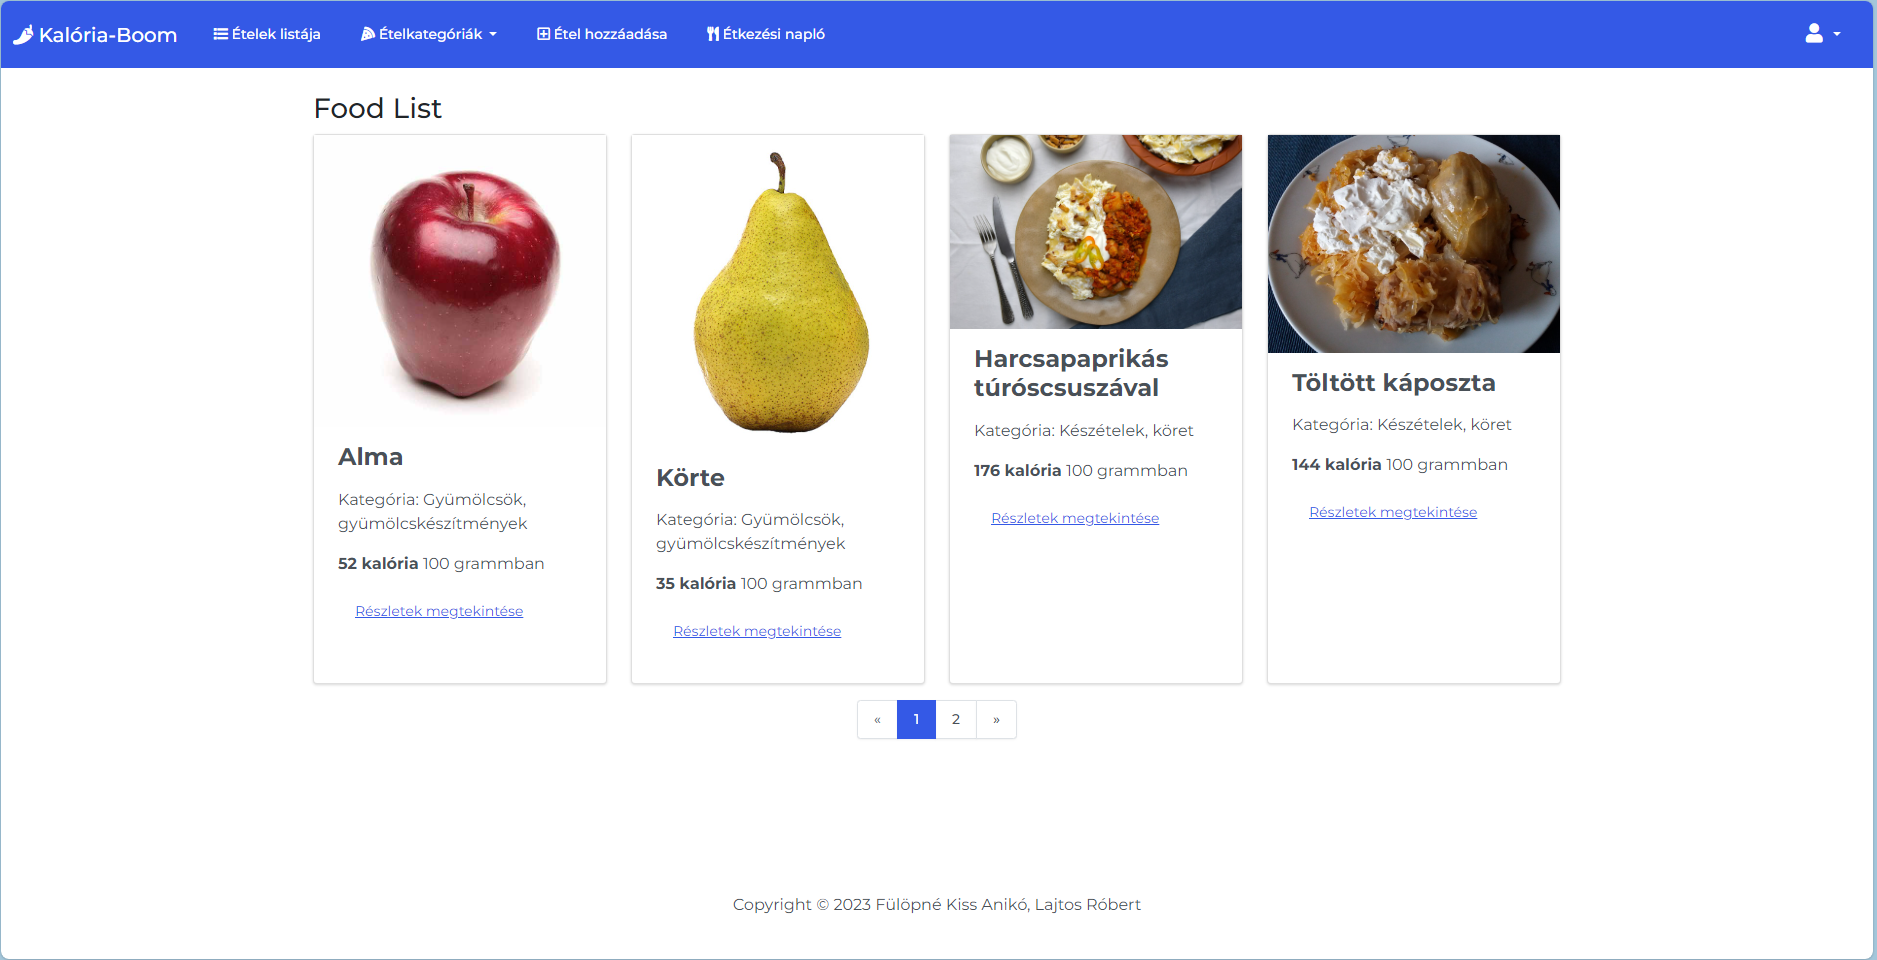
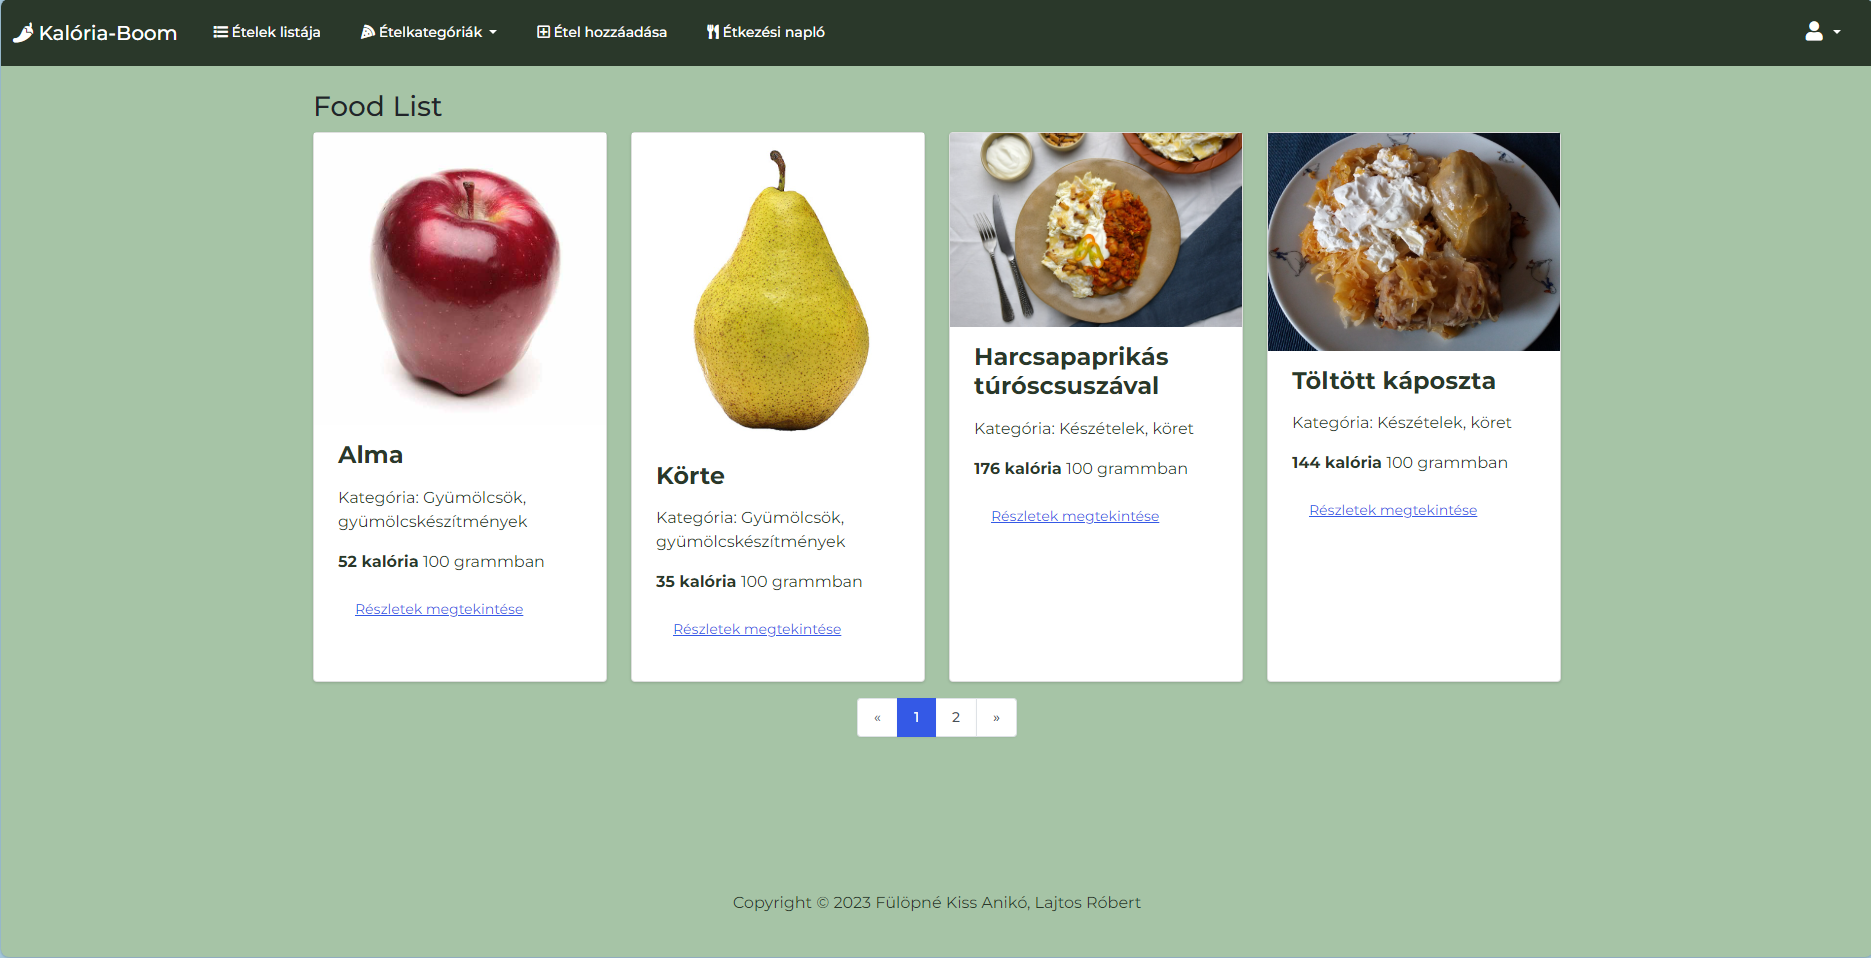
Improve colors 2

diff --git a/templates/food_log.html b/templates/food_log.html
@@ -35,7 +35,7 @@
                         </div>
 
                         <div class="col-4">
-                          <button type="submit" class="btn btn-info">
+                          <button type="submit" class="btn green">
                             <i class="fas fa-light fa-plus fa-beat ml-3"></i>
                           </button>
                         </div>
@@ -96,7 +96,7 @@
 
                       <td>
                         <a
-                          class="btn btn-danger"
+                          class="btn light-red"
                           href="{% url 'food_log_delete' food_item.id %}"
                         >
                           <i class="fas fa-trash-alt"></i>
@@ -133,7 +133,7 @@
                 <div class="progress" style="height: 40px">
                   <div
                     id="progressBar"
-                    class="progress-bar progress-bar-striped bg-dark progress-bar-animated"
+                    class="progress-bar progress-bar-striped light-green progress-bar-animated"
                     role="progressbar"
                     aria-valuenow="0"
                     aria-valuemin="0"

diff --git a/static/css/styles.css b/static/css/styles.css
@@ -33,3 +33,21 @@ footer {
     background-size: cover;
 }
 
+.light-green {
+    background-color: rgb(3, 252, 240);
+}
+
+.light-blue {
+    background-color: rgb(116, 145, 227);
+    color: rgb(225, 229, 240);
+}
+
+.light-red {
+    background-color: rgb(227, 64, 64);
+    color:white;
+}
+
+.green {
+    background-color: #28a745;
+    color: aliceblue;
+}

diff --git a/static/js/foodLog.js b/static/js/foodLog.js
@@ -55,7 +55,7 @@ var myPieChart = new Chart(ctx, {
         [
             {
                 data: [fatPercentage, carbohydratesPercentage, proteinPercentage],
-                backgroundColor: ['#e5a641', '#55b560', '#419ad6'],
+                backgroundColor: ['#03FCF0', '#d34588', '#17a2b8'],
             }
         ],
     },
